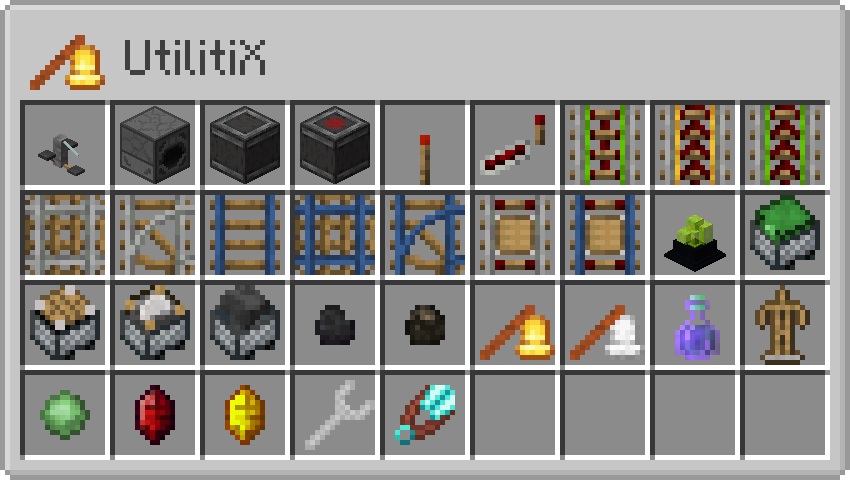
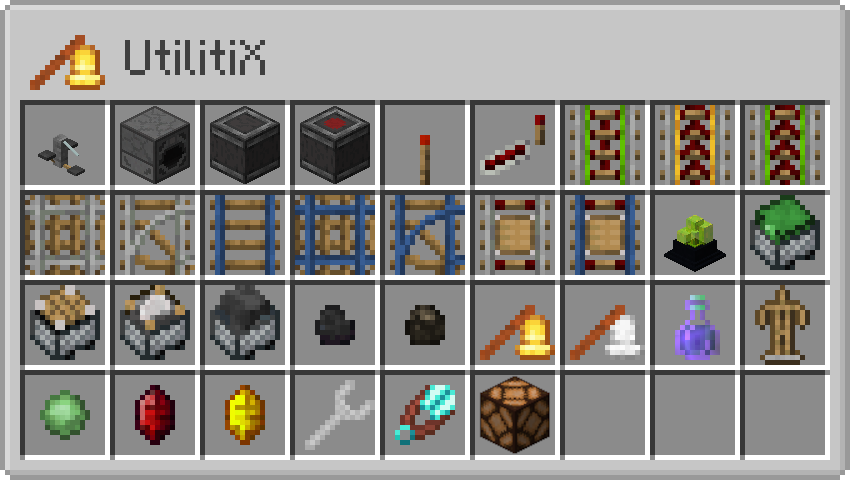
add dimmable redstone lamp

Changed region(s): [[0.5506, 0.7812, 0.6729, 0.9375]]

diff --git a/src/main/java/de/melanx/utilitix/block/DimmableRedstoneLamp.java b/src/main/java/de/melanx/utilitix/block/DimmableRedstoneLamp.java
@@ -1,0 +1,60 @@
+package de.melanx.utilitix.block;
+
+import io.github.noeppi_noeppi.libx.base.BlockBase;
+import io.github.noeppi_noeppi.libx.mod.ModX;
+import net.minecraft.core.BlockPos;
+import net.minecraft.world.item.context.BlockPlaceContext;
+import net.minecraft.world.level.Level;
+import net.minecraft.world.level.block.Block;
+import net.minecraft.world.level.block.state.BlockState;
+import net.minecraft.world.level.block.state.StateDefinition;
+import net.minecraft.world.level.block.state.properties.BlockStateProperties;
+import net.minecraft.world.level.block.state.properties.IntegerProperty;
+
+import javax.annotation.Nonnull;
+import javax.annotation.Nullable;
+import java.util.function.ToIntFunction;
+
+public class DimmableRedstoneLamp extends BlockBase {
+    public static final IntegerProperty SIGNAL = BlockStateProperties.POWER;
+    public static final ToIntFunction<BlockState> LIGHT_EMISSION = state -> state.getValue(SIGNAL);
+
+    public DimmableRedstoneLamp(ModX mod, Properties properties) {
+        super(mod, properties);
+        this.registerDefaultState(this.defaultBlockState().setValue(SIGNAL, 0));
+    }
+
+    @Nullable
+    @Override
+    public BlockState getStateForPlacement(@Nonnull BlockPlaceContext context) {
+        return this.defaultBlockState().setValue(SIGNAL, context.getLevel().getSignal(context.getClickedPos(), context.getClickedFace()));
+    }
+
+    @SuppressWarnings("deprecation")
+    @Override
+    public void neighborChanged(@Nonnull BlockState state, @Nonnull Level level, @Nonnull BlockPos pos, @Nonnull Block block, @Nonnull BlockPos fromPos, boolean isMoving) {
+        if (!level.isClientSide) {
+            this.updatePowerStrength(state, level, pos);
+        }
+    }
+
+    @SuppressWarnings("deprecation")
+    @Override
+    public void onPlace(@Nonnull BlockState state, @Nonnull Level level, @Nonnull BlockPos pos, @Nonnull BlockState oldState, boolean isMoving) {
+        if (!oldState.is(state.getBlock()) && !level.isClientSide) {
+            this.updatePowerStrength(state, level, pos);
+        }
+    }
+
+    private void updatePowerStrength(BlockState state, Level level, BlockPos pos) {
+        int signal = level.getBestNeighborSignal(pos);
+        if (state.getValue(SIGNAL) != signal) {
+            level.setBlock(pos, state.setValue(SIGNAL, signal), Block.UPDATE_CLIENTS);
+        }
+    }
+
+    @Override
+    protected void createBlockStateDefinition(@Nonnull StateDefinition.Builder<Block, BlockState> builder) {
+        builder.add(SIGNAL);
+    }
+}

diff --git a/src/main/java/de/melanx/utilitix/registration/ModBlocks.java b/src/main/java/de/melanx/utilitix/registration/ModBlocks.java
@@ -1,10 +1,7 @@
 package de.melanx.utilitix.registration;
 
 import de.melanx.utilitix.UtilitiX;
-import de.melanx.utilitix.block.ComparatorRedirector;
-import de.melanx.utilitix.block.ModProperties;
-import de.melanx.utilitix.block.StoneWallBlock;
-import de.melanx.utilitix.block.WeakRedstoneTorch;
+import de.melanx.utilitix.block.*;
 import de.melanx.utilitix.content.brewery.BlockAdvancedBrewery;
 import de.melanx.utilitix.content.brewery.ContainerMenuAdvancedBrewery;
 import de.melanx.utilitix.content.brewery.TileAdvancedBrewery;
@@ -25,6 +22,7 @@ import net.minecraft.world.item.CreativeModeTab;
 import net.minecraft.world.item.Item;
 import net.minecraft.world.level.block.Block;
 import net.minecraft.world.level.block.Blocks;
+import net.minecraft.world.level.block.SoundType;
 import net.minecraft.world.level.block.state.BlockBehaviour;
 import net.minecraft.world.level.block.state.properties.BlockStateProperties;
 import net.minecraft.world.level.block.state.properties.Property;
@@ -43,6 +41,7 @@ public class ModBlocks {
     public static final BlockBase comparatorRedirectorDown = new ComparatorRedirector(UtilitiX.getInstance(), Direction.DOWN, BlockBehaviour.Properties.copy(Blocks.OBSERVER));
     public static final WeakRedstoneTorch weakRedstoneTorch = new WeakRedstoneTorch(UtilitiX.getInstance(), BlockBehaviour.Properties.copy(Blocks.REDSTONE_TORCH));
     public static final BlockBase linkedRepeater = new BlockLinkedRepeater(UtilitiX.getInstance(), BlockBehaviour.Properties.copy(Blocks.REPEATER));
+    public static final DimmableRedstoneLamp dimmableRedstoneLamp = new DimmableRedstoneLamp(UtilitiX.getInstance(), BlockBehaviour.Properties.of(Material.BUILDABLE_GLASS).strength(0.3F).sound(SoundType.GLASS).lightLevel(DimmableRedstoneLamp.LIGHT_EMISSION).isValidSpawn((state, level, pos, entityType) -> true));
     public static final Block highspeedRail = new BlockPoweredRail(UtilitiX.getInstance(), 0.7, BlockBehaviour.Properties.copy(Blocks.POWERED_RAIL)) {
         @Nonnull
         @Override

diff --git a/src/main/java/de/melanx/utilitix/data/BlockStateProvider.java b/src/main/java/de/melanx/utilitix/data/BlockStateProvider.java
@@ -2,6 +2,7 @@ package de.melanx.utilitix.data;
 
 import de.melanx.utilitix.UtilitiX;
 import de.melanx.utilitix.block.ComparatorRedirector;
+import de.melanx.utilitix.block.DimmableRedstoneLamp;
 import de.melanx.utilitix.block.ModProperties;
 import de.melanx.utilitix.data.state.RailState;
 import de.melanx.utilitix.registration.ModBlocks;
@@ -169,6 +170,22 @@ public class BlockStateProvider extends BlockStateProviderBase {
             }
         } else if (block == ModBlocks.stoneWall) {
             this.wallBlock((WallBlock) block, this.mcLoc("block/stone"));
+        } else if (block == ModBlocks.dimmableRedstoneLamp) {
+            VariantBlockStateBuilder builder = this.getVariantBuilder(block);
+            for (int signal : DimmableRedstoneLamp.SIGNAL.getPossibleValues()) {
+                boolean isDefault = signal == 0 || signal == 15;
+
+                ConfiguredModel signalModel;
+                if (isDefault) {
+                    boolean on = signal == 15;
+                    signalModel = new ConfiguredModel(this.models().cubeAll(id.getPath() + (on ? "_" + signal : ""), this.mcLoc("block/redstone_lamp" + (on ? "_on" : ""))));
+                } else {
+                    signalModel = new ConfiguredModel(this.models().cubeAll(id.getPath() + "_" + signal, this.modLoc("block/dimmable_redstone_lamp_" + signal)));
+                }
+
+                builder.partialState().with(DimmableRedstoneLamp.SIGNAL, signal)
+                        .addModels(signalModel);
+            }
         } else {
             super.defaultState(id, block, model);
         }

diff --git a/src/main/java/de/melanx/utilitix/data/ItemModelProvider.java b/src/main/java/de/melanx/utilitix/data/ItemModelProvider.java
@@ -7,6 +7,7 @@ import de.melanx.utilitix.item.ItemMobYoinker;
 import de.melanx.utilitix.registration.ModBlocks;
 import de.melanx.utilitix.registration.ModItems;
 import io.github.noeppi_noeppi.libx.annotation.data.Datagen;
+import io.github.noeppi_noeppi.libx.data.AlwaysExistentModelFile;
 import io.github.noeppi_noeppi.libx.data.provider.ItemModelProviderBase;
 import io.github.noeppi_noeppi.libx.mod.ModX;
 import net.minecraft.data.DataGenerator;
@@ -54,6 +55,8 @@ public class ItemModelProvider extends ItemModelProviderBase {
             this.withExistingParent(id.getPath(), GENERATED).texture("layer0", new ResourceLocation(id.getNamespace(), "item/" + id.getPath()));
         } else if (item.getBlock() == ModBlocks.stoneWall) {
             this.withExistingParent(id.getPath(), WALL_PARENT).texture("wall", new ResourceLocation("block/stone"));
+        } else if (item.getBlock() == ModBlocks.dimmableRedstoneLamp) {
+            this.getBuilder(id.getPath()).parent(new AlwaysExistentModelFile(new ResourceLocation(id.getNamespace(), "block/" + id.getPath() + "_" + 7)));
         } else {
             super.defaultBlock(id, item);
         }

diff --git a/src/main/java/de/melanx/utilitix/data/RecipeProvider.java b/src/main/java/de/melanx/utilitix/data/RecipeProvider.java
@@ -24,6 +24,7 @@ import net.minecraft.world.effect.MobEffects;
 import net.minecraft.world.item.Items;
 import net.minecraft.world.item.crafting.Ingredient;
 import net.minecraft.world.level.ItemLike;
+import net.minecraft.world.level.block.Blocks;
 import net.minecraftforge.common.Tags;
 
 import java.util.List;
@@ -51,6 +52,9 @@ public class RecipeProvider extends RecipeProviderBase implements CraftingExtens
         this.createShearsRecipes(this.consumer());
         this.wall(ModBlocks.stoneWall, Ingredient.of(Items.STONE));
         this.shaped(ModItems.mobYoinker, "CIC", "ILI", "III", 'I', Items.IRON_BARS, 'C', Items.COPPER_INGOT, 'L', Items.LEAD);
+        this.shaped(ModBlocks.dimmableRedstoneLamp, 4, " L ", "LRL", " L ", 'L', Blocks.REDSTONE_LAMP, 'R', Tags.Items.DUSTS_REDSTONE);
+        //noinspection ConstantConditions
+        this.shapeless(UtilitiX.getInstance().resource(Blocks.REDSTONE_LAMP.getRegistryName().getPath() + "_revert"), Blocks.REDSTONE_LAMP, ModBlocks.dimmableRedstoneLamp);
     }
 
     private void createTinyCoalRecipe(Consumer<FinishedRecipe> consumer, ItemLike coal, ItemLike tinyCoal) {
